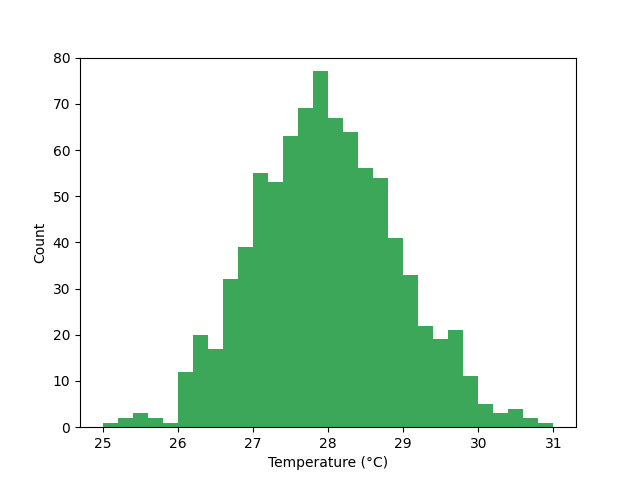
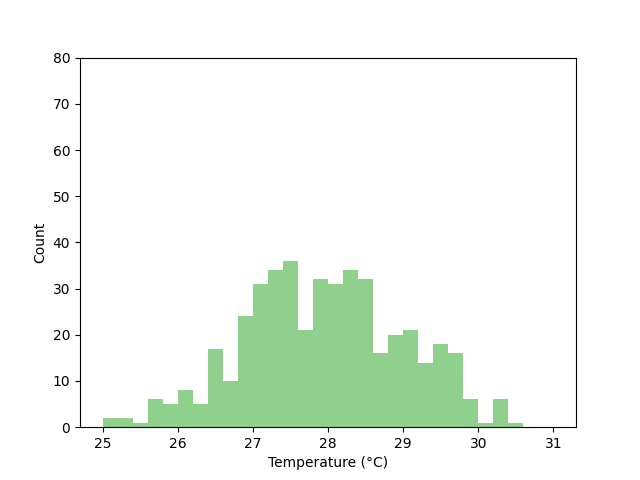
update

Changed region(s): [[0.1562, 0.125, 0.875, 0.9062]]

diff --git a/docs/examples/plot_animation_example.py b/docs/examples/plot_animation_example.py
@@ -39,7 +39,7 @@ gif_filename = Path('example_plots/animation_example.gif')
 Animator().animate(plotting_function=make_hists,param_dict={'sample':samples,'color':colors},fps=12,gif_filename=gif_filename)
 
 # sphinx_gallery_start_ignore
-fig = make_hists(samples[-5],colors[-5])
+fig = make_hists(samples[45],colors[45])
 fig.savefig('../_static/animation_example_thumb.png',dpi=100)
 plt.close(fig)
 # sphinx_gallery_end_ignore
